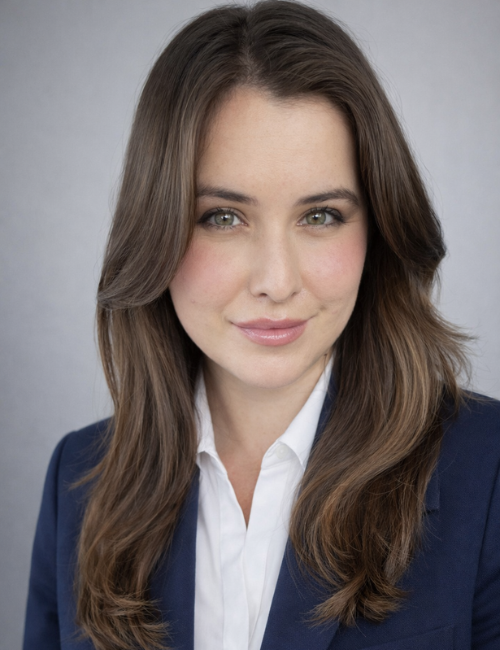
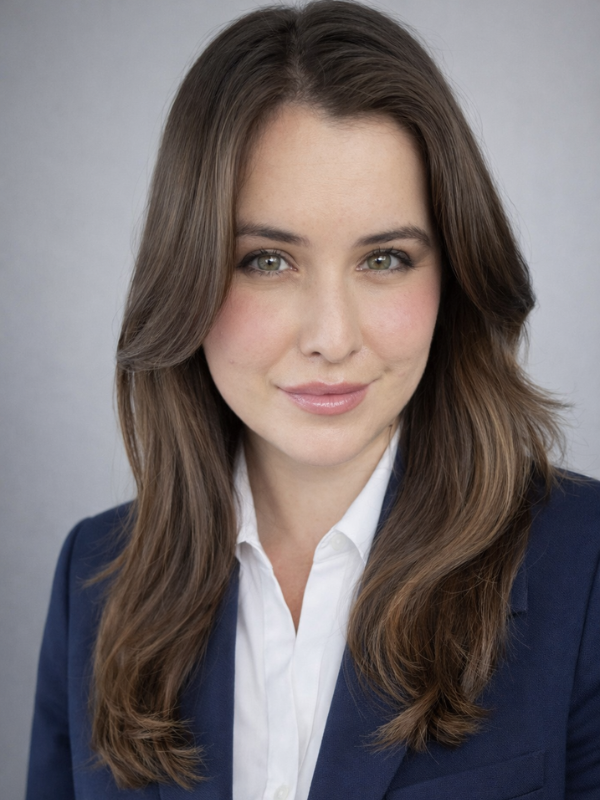
Lab 1 after completing final tweaks to meet the rubric requirements.

diff --git a/lab1/css/styles.css b/lab1/css/styles.css
@@ -1,10 +1,24 @@
 body {
     background-color: black;
-    color: gray;
+    color: white;
+    font-family: "Open Sans", sans-serif;
+    font-optical-sizing: auto;
+    font-weight: 500;
+    font-style: normal;
+    font-variation-settings: "wdth" 100;
+}
+
+header {
+    margin-bottom: 10px;
 }
 
 header, main, nav {
     text-align: center;
+}
+
+nav {
+    margin-top: 10px;
+    margin-bottom: 25px;
 }
 
 nav a {
@@ -21,15 +35,17 @@ nav a {
 }
 
 nav a:hover {
-    border-bottom: 2px orange solid;
-    font-size: 2em;
+    border-bottom: 2px yellow solid;
+    color: rgb(152, 221, 255);
     transition: .9s;
 }
 
 nav a.active {
     background-color: #828282;
+    color: white;
     text-shadow: 2px 2px 4px #0b285c;
-    padding: 3px 6px;
+    padding: 4px 8px;
+    border-radius: 6px;
 }
 
 table {
@@ -38,54 +54,94 @@ table {
 
 /* id to identify a single element  */
 #table-header {
-    background-color: rgb(9, 105, 146);
+    background-color: #1f4c81;
+    text-shadow: 2px 2px 4px #0b285c;
 }
 
 /* class to style a group of elements */
 .table-row {
-    background-color: #deebeb;
+    background-color: #dfe8f2;
+    color: #1a2b44;
 }
 
 td {
+    padding-left: 10px;
     padding-right: 10px;
     font-size: 1.3em;
 }
 
 td strong {
-    color: orange;
+    color: #6fa3cc;
 }
 
 ul {
     width: 500px;
     margin: 0px auto;
     text-align: left;
+    line-height: 1.5em;
 }
 
 .hobby {
-    color: yellow
+    color: #6fa3cc;
 }
 
 main {
     display: flex;
-    justify-content: center;;
+    justify-content: center;
+    align-items: center;
+    gap: 30px;
+}
+
+.quote {
+    text-align: center;
+    margin-top: 10px;
+    font-style: italic;
+    color: #cfd8e3;
 }
 
 h1 {
   font-family: "Meow Script", cursive;
   font-weight: 500;
   font-style: normal;
+  font-size: 3.5em;
+  margin-bottom: 10px;
+  color: #4f8fc4;
 }
 
-body {
-  font-family: "Open Sans", sans-serif;
-  font-optical-sizing: auto;
-  font-weight: 500;
-  font-style: normal;
-  font-variation-settings:
-    "wdth" 100;
+figure img {
+    border-radius: 10px;
+    margin-top: 10px;
+}
+
+#headshot {
+    width: 400px;   
+}
+
+.group-section {
+    display: flex;
+    justify-content: center;
+    align-items: center;
+    gap: 10px;
+    margin: 10px auto;
+    max-width: 1200px;
+}
+
+.group-name {
+    color: #6fa3cc;
+}
+
+.group-logo img {
+    width: 300px;
+}
+
+footer img {
+    display: block;
+    height: auto;
+    margin: 0 auto;
 }
 
 footer {
     font-size: smaller;
     color: #8fa0bd;
+    margin-top: 30px;
 }

diff --git a/lab1/index.html b/lab1/index.html
@@ -27,18 +27,24 @@
         </nav>
         <main>
             <figure>
-                <img src="img/Stinson_Headshot.png" alt="Mariah Stinson's Picture">
+                <img id="headshot" src="img/Stinson_Headshot.png" alt="Mariah Stinson's Picture">
             </figure>
             <div>
                 Hello! <br>
                 <p> Thank you for visiting my professional portfolio website. </p>
-                <p> I am a student Computer Science major at California State University, Monterey Bay. </p>
+                <p> I am a student Computer Science major at California State University, Monterey Bay. 
+                    This site highlights some of my background, experience, and interests as I continue to 
+                    develop my skills in programming.
+                </p>
+
                 <p> Feel free to contact me! </p>
-                <br><br>
-                <em> "You miss 100% of the shots you don't take." </em>
-                <br> - Wayne Gretzky
             </div>
         </main>
+            <div class="quote">
+                <em> "You miss 100% of the shots you don't take." <br>
+                - Wayne Gretzky
+                </em>
+            </div>
         <footer>
             <hr>
             CST336 Internet Programming. 2026&copy; Stinson <br>

diff --git a/lab1/about.html b/lab1/about.html
@@ -51,7 +51,18 @@
         <li><span class="hobby">Music</span>: I play the alto saxophone.</li>
         <li><span class="hobby">Programming</span>: I have a love/hate relationship with C++.</li>
     </ul>
+    <div class="group-section">
+        <figure class="group-logo">
+            <img src="img/otterly_intelligent_logo.png" alt="Otterly Intelligent Logo">
+        </figure>
+        <p>
+        I am currently enrolled in the online Computer Science program at CSUMB as part of Cohort '23. Within the program, I collaborate with a
+        small team called <strong class="group-name">Otterly Intelligent</strong>, made up of Claudia Fierro, Cody Hopkins, Justin Martlock, and myself. Our group works
+        together on projects and assignments throughout the program. The name "Otterly Intelligent" is a nod to CSUMB's mascot, Monte Ray, a Sea Otter, 
+        and our enthusiasm for learning.
+        </p>
 
+    </div>
     <footer>
         <hr>
         CST336 Internet Programming. 2026&copy; Stinson <br>

diff --git a/lab1/contact.html b/lab1/contact.html
@@ -1,6 +1,6 @@
 <!DOCTYPE html>
 
-<html lang="en" xmlns="http://www.w3.org/1999/xhtml">
+<html lang="en">
 <head>
     <meta charset="utf-8" />
     <title> Mariah Stinson: Contact </title>
